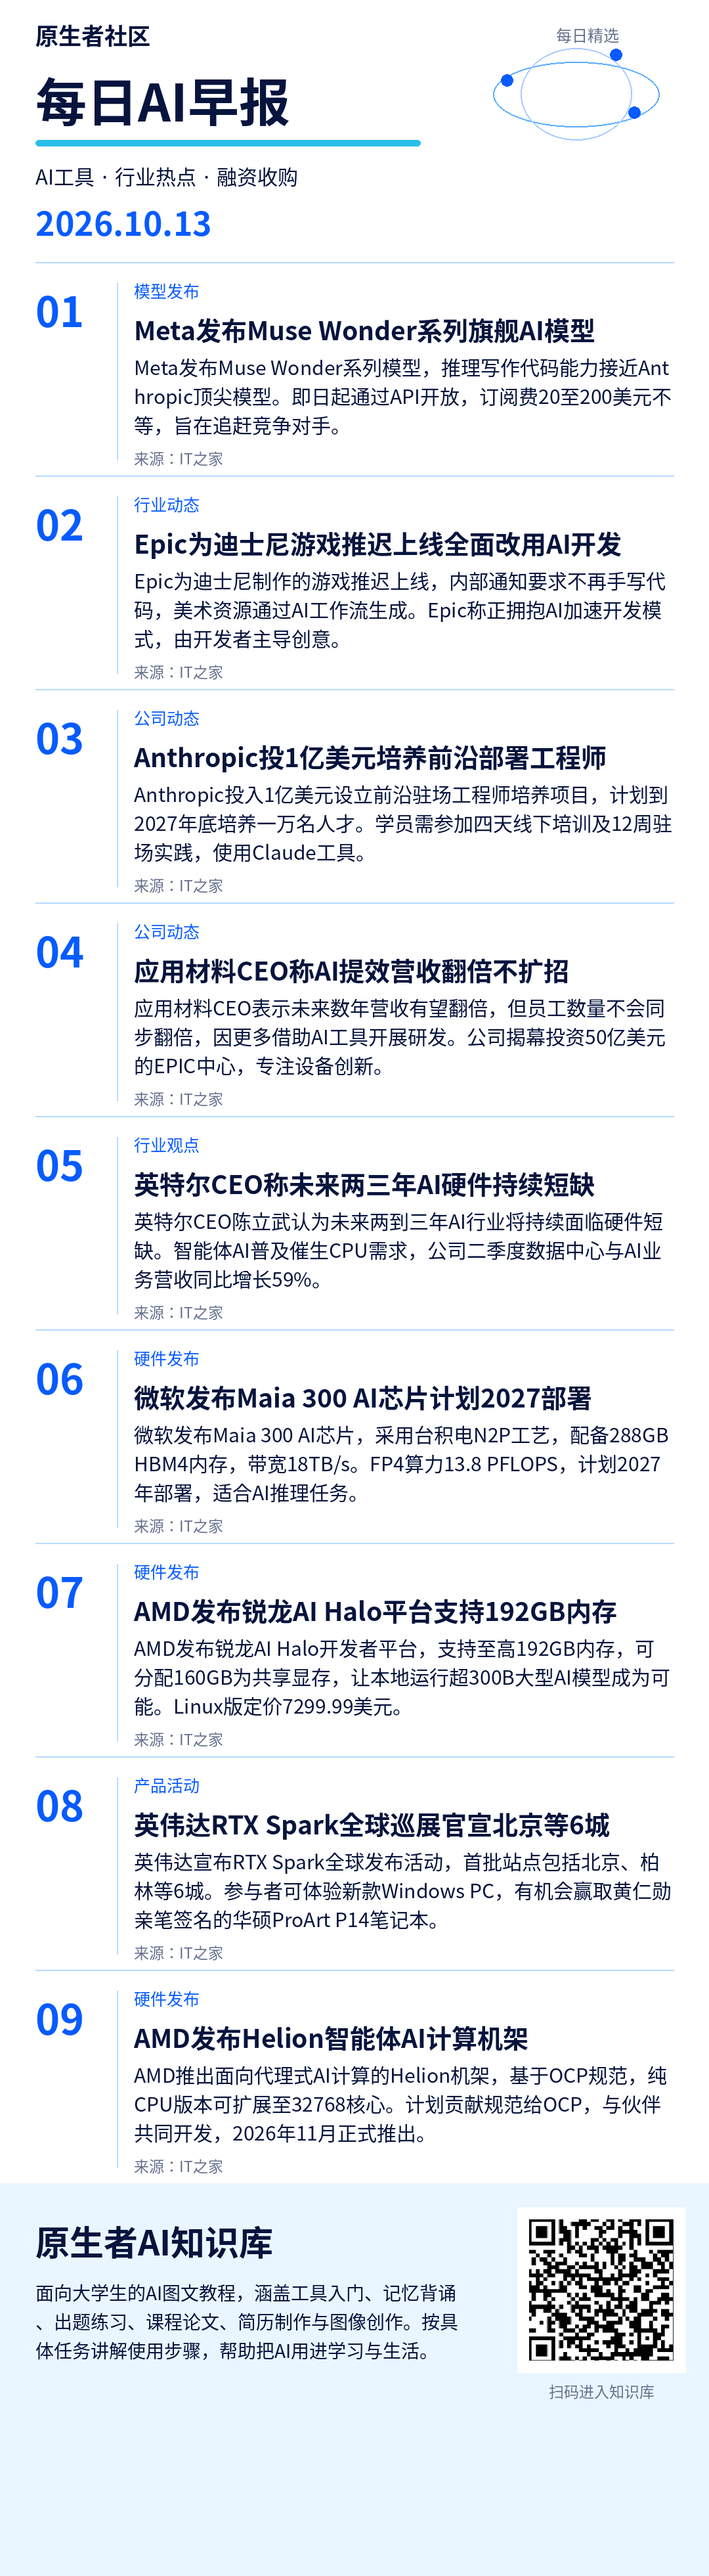
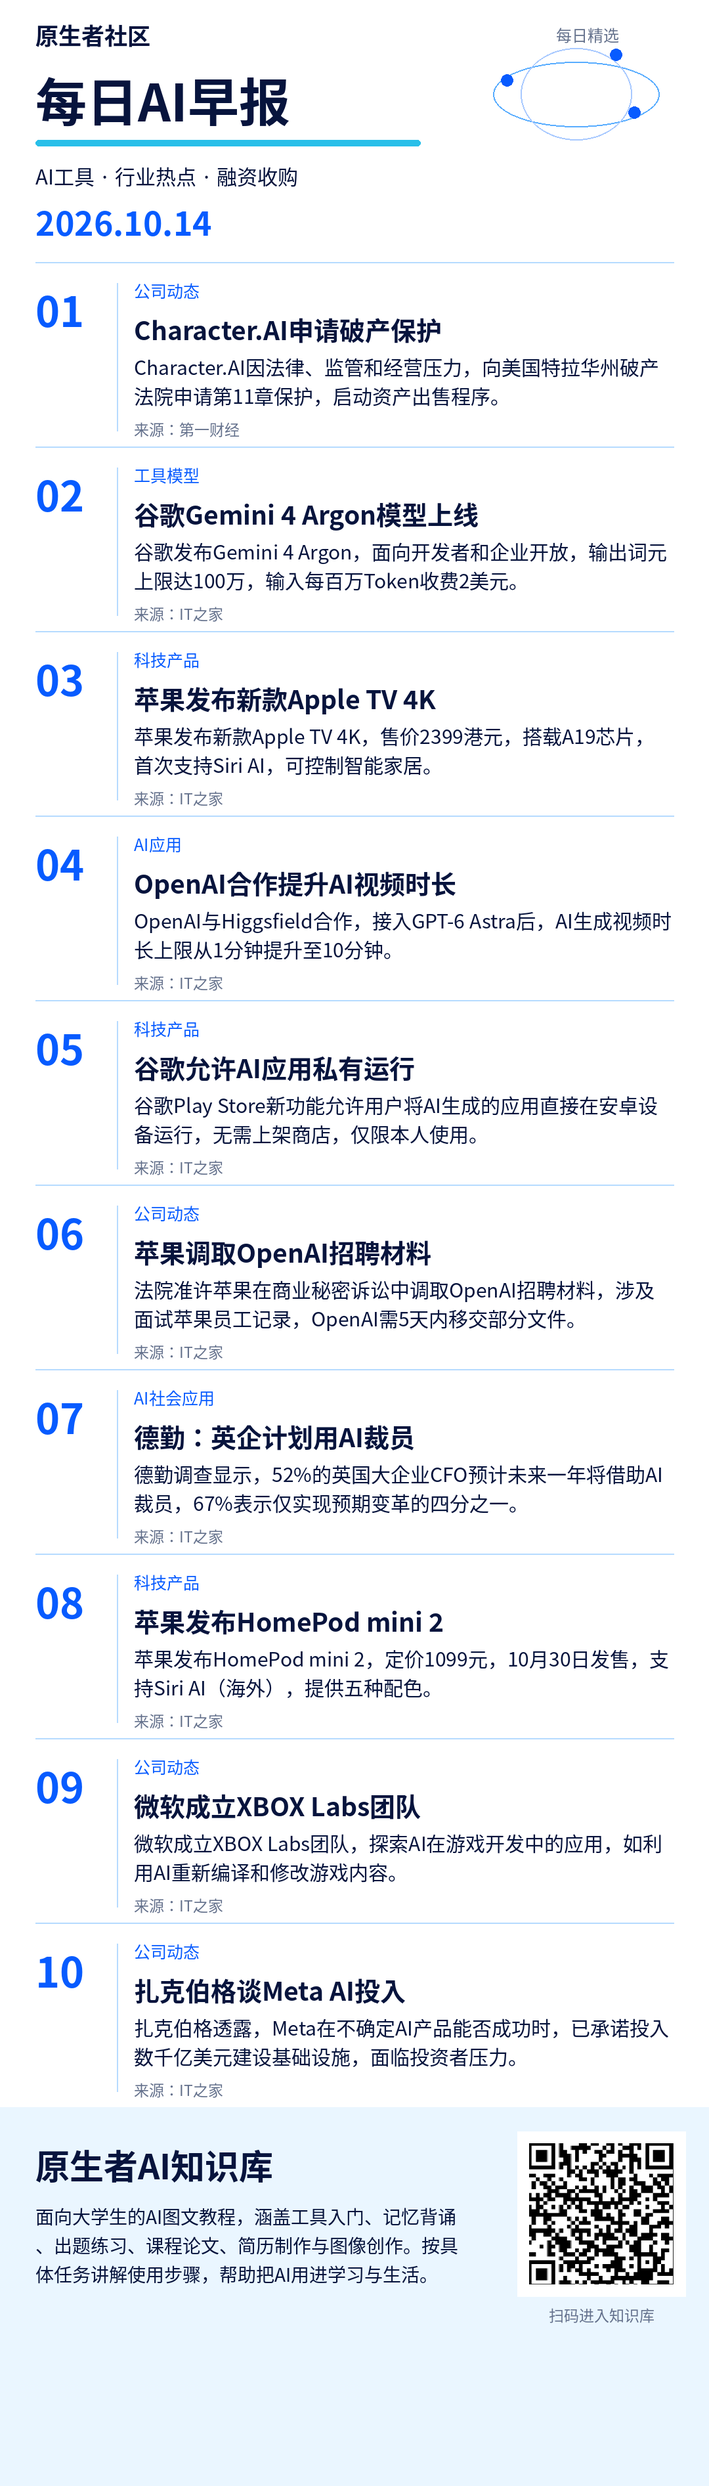
Publish mobile brief 2026-10-14

diff --git a/index.html b/index.html
@@ -2,16 +2,16 @@
 <html lang="zh-CN"><meta charset="utf-8"><meta name="viewport" content="width=device-width, initial-scale=1">
 <title>原生者社区 · 每日AI早报</title>
 <style>body{margin:0;background:#f4f6fa;color:#18263d;font-family:system-ui,sans-serif}main{max-width:680px;margin:auto;padding:24px 16px}h1{font-size:25px;margin:8px 0}p{line-height:1.7}small{color:#59677c}section{background:white;padding:20px;border-radius:16px;margin:20px 0}img{width:100%;height:auto;display:block}a,button{display:inline-block;background:#182f55;color:white;padding:12px 18px;border:0;border-radius:10px;text-decoration:none;font-size:16px}textarea{box-sizing:border-box;width:100%;height:360px;border:1px solid #d5dce7;border-radius:10px;padding:12px;font:16px/1.7 system-ui;resize:vertical}#status{min-height:28px;color:#345786}</style>
-<main><small>原生者社区</small><h1>每日AI早报</h1><p>2026-10-13</p>
+<main><small>原生者社区</small><h1>每日AI早报</h1><p>2026-10-14</p>
 <section><h2>简报图片</h2><p>长按下面的图片，选择“保存图片”，即可发到群里。</p>
 <a href="brief.png" target="_blank" rel="noopener">打开完整图片</a><p></p><img src="brief.png" alt="原生者社区每日简报"></section>
-<section><h2>每日群发内容</h2><p><a href="https://www.ithome.com/1/012/138.htm" target="_blank" rel="noopener">Meta发布Muse Wonder系列旗舰AI模型</a></p><p><a href="https://www.ithome.com/1/012/136.htm" target="_blank" rel="noopener">Epic为迪士尼游戏推迟上线全面改用AI开发</a></p><p><a href="https://wcno0em1rfbm.feishu.cn/wiki/V5rTwi7eZiyy1XkwaWoclayCnTg" target="_blank" rel="noopener">辅助论文书写</a></p><textarea id="copy" readonly>1. Meta发布Muse Wonder系列旗舰AI模型
-https://www.ithome.com/1/012/138.htm
+<section><h2>每日群发内容</h2><p><a href="https://www.yicai.com/news/103392124.html" target="_blank" rel="noopener">Character.AI申请破产保护</a></p><p><a href="https://www.ithome.com/1/012/601.htm" target="_blank" rel="noopener">谷歌Gemini 4 Argon模型上线</a></p><p><a href="https://wcno0em1rfbm.feishu.cn/wiki/E7CWwedTHiIWCkks72KcGa8xnKd" target="_blank" rel="noopener">AI 做 PPT 入门：第一版成稿</a></p><textarea id="copy" readonly>1. Character.AI申请破产保护
+https://www.yicai.com/news/103392124.html
 
-2. Epic为迪士尼游戏推迟上线全面改用AI开发
-https://www.ithome.com/1/012/136.htm
+2. 谷歌Gemini 4 Argon模型上线
+https://www.ithome.com/1/012/601.htm
 
-知识库里的《辅助论文书写》，从课程要求与选题出发，介绍文献检索、论文框架、写作修改和提交检查。正在准备课程论文的同学可以从这篇开始。
-https://wcno0em1rfbm.feishu.cn/wiki/V5rTwi7eZiyy1XkwaWoclayCnTg</textarea><p></p>
+知识库里的《AI 做 PPT 入门：第一版成稿》，用校园活动策划案例讲解如何整理资料、确定大纲并做出第一版 PPT。适合准备课堂展示或社团活动方案的同学。
+https://wcno0em1rfbm.feishu.cn/wiki/E7CWwedTHiIWCkks72KcGa8xnKd</textarea><p></p>
 <button id="copyButton" type="button">复制群发内容</button><p id="status" role="status"></p></section></main>
 <script>document.getElementById('copyButton').onclick=async()=>{const t=document.getElementById('copy');const s=document.getElementById('status');try{await navigator.clipboard.writeText(t.value);s.textContent='已复制，可以粘贴到群里。';}catch(e){t.focus();t.select();t.setSelectionRange(0,t.value.length);try{if(!document.execCommand('copy'))throw Error();s.textContent='已复制，可以粘贴到群里。';}catch(e){s.textContent='已选中配文，请长按文字，选择复制。';}}};</script></html>

diff --git a/2026-10-14/1de592a60c30f444/index.html b/2026-10-14/1de592a60c30f444/index.html
@@ -1,0 +1,17 @@
+<!doctype html>
+<html lang="zh-CN"><meta charset="utf-8"><meta name="viewport" content="width=device-width, initial-scale=1">
+<title>原生者社区 · 每日AI早报</title>
+<style>body{margin:0;background:#f4f6fa;color:#18263d;font-family:system-ui,sans-serif}main{max-width:680px;margin:auto;padding:24px 16px}h1{font-size:25px;margin:8px 0}p{line-height:1.7}small{color:#59677c}section{background:white;padding:20px;border-radius:16px;margin:20px 0}img{width:100%;height:auto;display:block}a,button{display:inline-block;background:#182f55;color:white;padding:12px 18px;border:0;border-radius:10px;text-decoration:none;font-size:16px}textarea{box-sizing:border-box;width:100%;height:360px;border:1px solid #d5dce7;border-radius:10px;padding:12px;font:16px/1.7 system-ui;resize:vertical}#status{min-height:28px;color:#345786}</style>
+<main><small>原生者社区</small><h1>每日AI早报</h1><p>2026-10-14</p>
+<section><h2>简报图片</h2><p>长按下面的图片，选择“保存图片”，即可发到群里。</p>
+<a href="brief.png" target="_blank" rel="noopener">打开完整图片</a><p></p><img src="brief.png" alt="原生者社区每日简报"></section>
+<section><h2>每日群发内容</h2><p><a href="https://www.yicai.com/news/103392124.html" target="_blank" rel="noopener">Character.AI申请破产保护</a></p><p><a href="https://www.ithome.com/1/012/601.htm" target="_blank" rel="noopener">谷歌Gemini 4 Argon模型上线</a></p><p><a href="https://wcno0em1rfbm.feishu.cn/wiki/E7CWwedTHiIWCkks72KcGa8xnKd" target="_blank" rel="noopener">AI 做 PPT 入门：第一版成稿</a></p><textarea id="copy" readonly>1. Character.AI申请破产保护
+https://www.yicai.com/news/103392124.html
+
+2. 谷歌Gemini 4 Argon模型上线
+https://www.ithome.com/1/012/601.htm
+
+知识库里的《AI 做 PPT 入门：第一版成稿》，用校园活动策划案例讲解如何整理资料、确定大纲并做出第一版 PPT。适合准备课堂展示或社团活动方案的同学。
+https://wcno0em1rfbm.feishu.cn/wiki/E7CWwedTHiIWCkks72KcGa8xnKd</textarea><p></p>
+<button id="copyButton" type="button">复制群发内容</button><p id="status" role="status"></p></section></main>
+<script>document.getElementById('copyButton').onclick=async()=>{const t=document.getElementById('copy');const s=document.getElementById('status');try{await navigator.clipboard.writeText(t.value);s.textContent='已复制，可以粘贴到群里。';}catch(e){t.focus();t.select();t.setSelectionRange(0,t.value.length);try{if(!document.execCommand('copy'))throw Error();s.textContent='已复制，可以粘贴到群里。';}catch(e){s.textContent='已选中配文，请长按文字，选择复制。';}}};</script></html>

diff --git a/2026-10-14/index.html b/2026-10-14/index.html
@@ -1,0 +1,17 @@
+<!doctype html>
+<html lang="zh-CN"><meta charset="utf-8"><meta name="viewport" content="width=device-width, initial-scale=1">
+<title>原生者社区 · 每日AI早报</title>
+<style>body{margin:0;background:#f4f6fa;color:#18263d;font-family:system-ui,sans-serif}main{max-width:680px;margin:auto;padding:24px 16px}h1{font-size:25px;margin:8px 0}p{line-height:1.7}small{color:#59677c}section{background:white;padding:20px;border-radius:16px;margin:20px 0}img{width:100%;height:auto;display:block}a,button{display:inline-block;background:#182f55;color:white;padding:12px 18px;border:0;border-radius:10px;text-decoration:none;font-size:16px}textarea{box-sizing:border-box;width:100%;height:360px;border:1px solid #d5dce7;border-radius:10px;padding:12px;font:16px/1.7 system-ui;resize:vertical}#status{min-height:28px;color:#345786}</style>
+<main><small>原生者社区</small><h1>每日AI早报</h1><p>2026-10-14</p>
+<section><h2>简报图片</h2><p>长按下面的图片，选择“保存图片”，即可发到群里。</p>
+<a href="brief.png" target="_blank" rel="noopener">打开完整图片</a><p></p><img src="brief.png" alt="原生者社区每日简报"></section>
+<section><h2>每日群发内容</h2><p><a href="https://www.yicai.com/news/103392124.html" target="_blank" rel="noopener">Character.AI申请破产保护</a></p><p><a href="https://www.ithome.com/1/012/601.htm" target="_blank" rel="noopener">谷歌Gemini 4 Argon模型上线</a></p><p><a href="https://wcno0em1rfbm.feishu.cn/wiki/E7CWwedTHiIWCkks72KcGa8xnKd" target="_blank" rel="noopener">AI 做 PPT 入门：第一版成稿</a></p><textarea id="copy" readonly>1. Character.AI申请破产保护
+https://www.yicai.com/news/103392124.html
+
+2. 谷歌Gemini 4 Argon模型上线
+https://www.ithome.com/1/012/601.htm
+
+知识库里的《AI 做 PPT 入门：第一版成稿》，用校园活动策划案例讲解如何整理资料、确定大纲并做出第一版 PPT。适合准备课堂展示或社团活动方案的同学。
+https://wcno0em1rfbm.feishu.cn/wiki/E7CWwedTHiIWCkks72KcGa8xnKd</textarea><p></p>
+<button id="copyButton" type="button">复制群发内容</button><p id="status" role="status"></p></section></main>
+<script>document.getElementById('copyButton').onclick=async()=>{const t=document.getElementById('copy');const s=document.getElementById('status');try{await navigator.clipboard.writeText(t.value);s.textContent='已复制，可以粘贴到群里。';}catch(e){t.focus();t.select();t.setSelectionRange(0,t.value.length);try{if(!document.execCommand('copy'))throw Error();s.textContent='已复制，可以粘贴到群里。';}catch(e){s.textContent='已选中配文，请长按文字，选择复制。';}}};</script></html>
